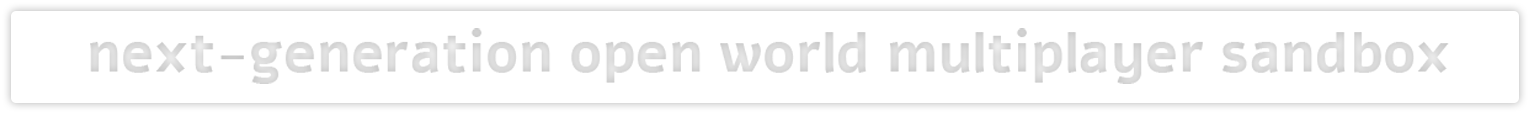
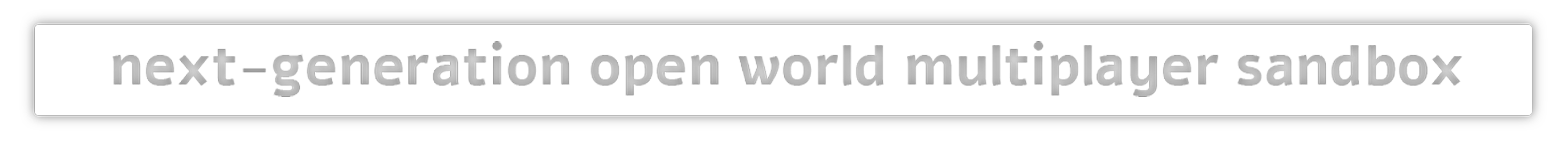
Added brand images

diff --git a/css/style.css b/css/style.css
@@ -1,5 +1,4 @@
 @import url("https://fonts.googleapis.com/css?family=Gothic+A1|Righteous");
-@import url('http://fonts.cdnfonts.com/css/rufing');
 
 @media screen and (max-width: 600px) {
 	.brand {
@@ -49,7 +48,7 @@ body {
 
 #hero-brands {
 	position: absolute;
-	top: 30%;
+	top: 25%;
 	left: 50%;
 	font-size: 128px;
 	transform: translate(-50%);
@@ -65,12 +64,10 @@ body {
 }
 
 .brand {
-	font-family: "Rufing";
-	color: white;
 }
 
 .sub-brand {
-	width: 690px;
+	width: 510px;
 }
 
 #main div:not(#subscribe div) {

diff --git a/index.html b/index.html
@@ -23,7 +23,7 @@
 		<div id="hero">
 			<div id="hero-background"></div>
 			<div id="hero-brands">
-				<p class="brand" data-aos="fade-left">nanos world</p>
+				<img class="brand" data-aos="fade-left" src="img/page/hero.png">
 				<img class="sub-brand" data-aos="fade-right" src="img/page/sub-header.png">
 			</div>
 		</div>
